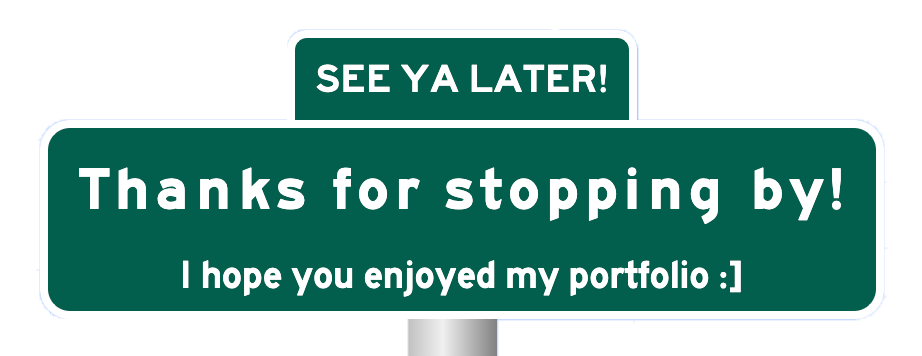
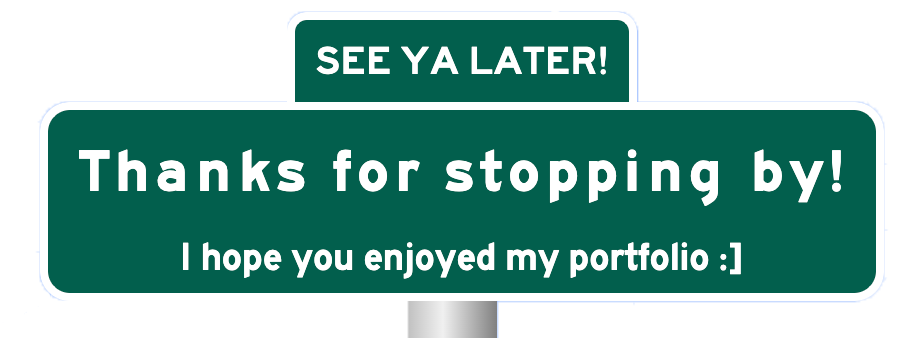
Add files via upload

diff --git a/index.html b/index.html
@@ -10,7 +10,7 @@
     <div class="top_lane">
       <img class="police" src="images/police.png">
       <img class="portfolio_img" src="images/portfolio.png">
-      <a href="javascript: document.getElementById('work').scrollIntoView(true);"><img class="work_zone" src="images/work_zone.png"></a>
+      <a class="work_zone_link" href="javascript: document.getElementById('work').scrollIntoView(true);"><img class="work_zone" src="images/work_zone.png"></a>
     </div>
 
     <div class="road">
@@ -45,12 +45,32 @@
       <img class="work" src="images/work.png">
     </div>
     <div class="new_lane">
-      <h2>Work...</h2>
+      <center>
       <div class="projects">
+        <div class="project_card">
+          
+        </div>
         <div class="project_card">
 
         </div>
       </div>
+      <div class="projects">
+        <div class="project_card">
+
+        </div>
+        <div class="project_card">
+
+        </div>
+      </div>
+      <div class="projects">
+        <div class="project_card">
+
+        </div>
+        <div class="project_card">
+
+        </div>
+      </div>
+      </center>
     </div>
 
     <div class="seeya_section">

diff --git a/index.css b/index.css
@@ -49,6 +49,7 @@ body {
 
 .work_zone:hover {
   transform: scale(1.1);
+  box-shadow: 0px 0px 20px rgba(0, 0, 0, 0.25);
 }
 
 .portfolio_img {
@@ -58,7 +59,6 @@ body {
   left: 50%;
   transform: translateX(-50%);
   top: 6vh;
-  pointer-events: none;
 }
 
 .top_lane {
@@ -153,15 +153,26 @@ body {
 }
 
 .projects {
-
+  display: flex;
+  align-items: space-between;
+  justify-content: center;
 }
 
 .project_card {
-  
+  height: 27vh;
+  width: 150vh;
+  margin-bottom: 75px;
+  transition: all .2s ease-in-out;
+  box-shadow: 0px 0px 20px rgba(0, 0, 0, 0.25);
+  border-radius: 10px;
+  margin: 3vw;
+}
+
+.project_card:hover {
+  transform: scale(1.025);
 }
 
 .seeya {
-  padding-top: 2.05vh;
   width: 45vh;
   margin: 0 auto;
   position: relative;
@@ -171,7 +182,7 @@ body {
 }
 
 .seeya_section {
-  height: 19.4vh;
+  height: 16.5vh;
   width: 100%;
   border-bottom: 0.5vh solid rgba(255, 255, 255, 0.25);
 }
